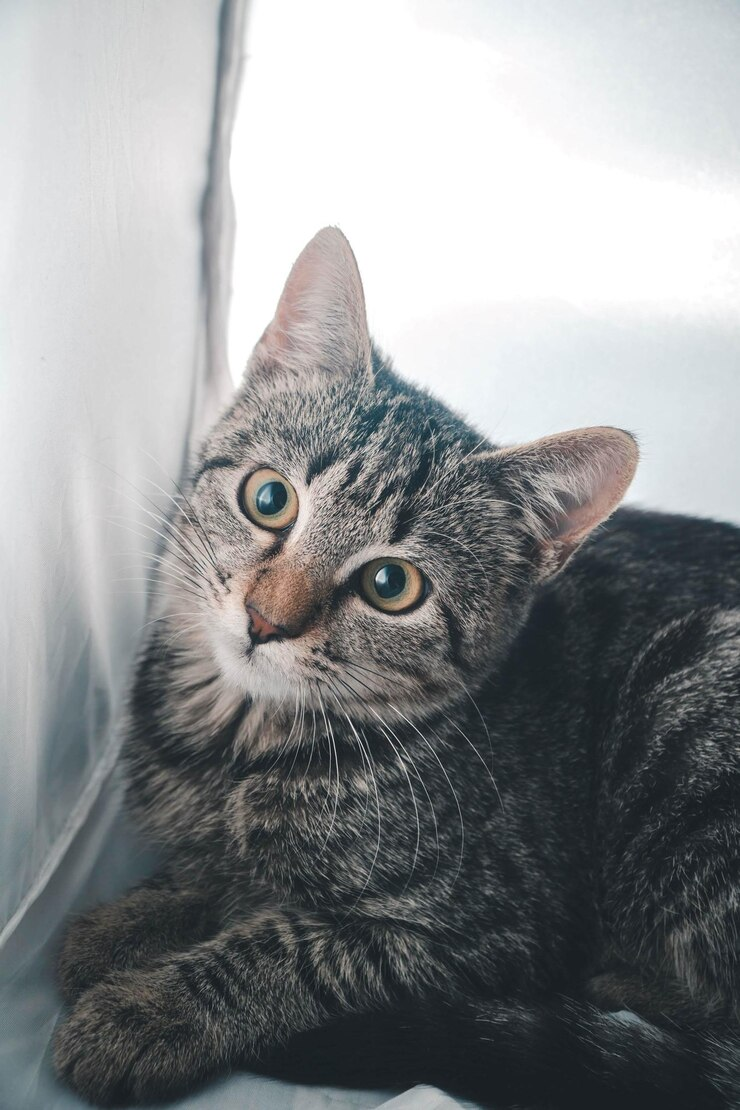
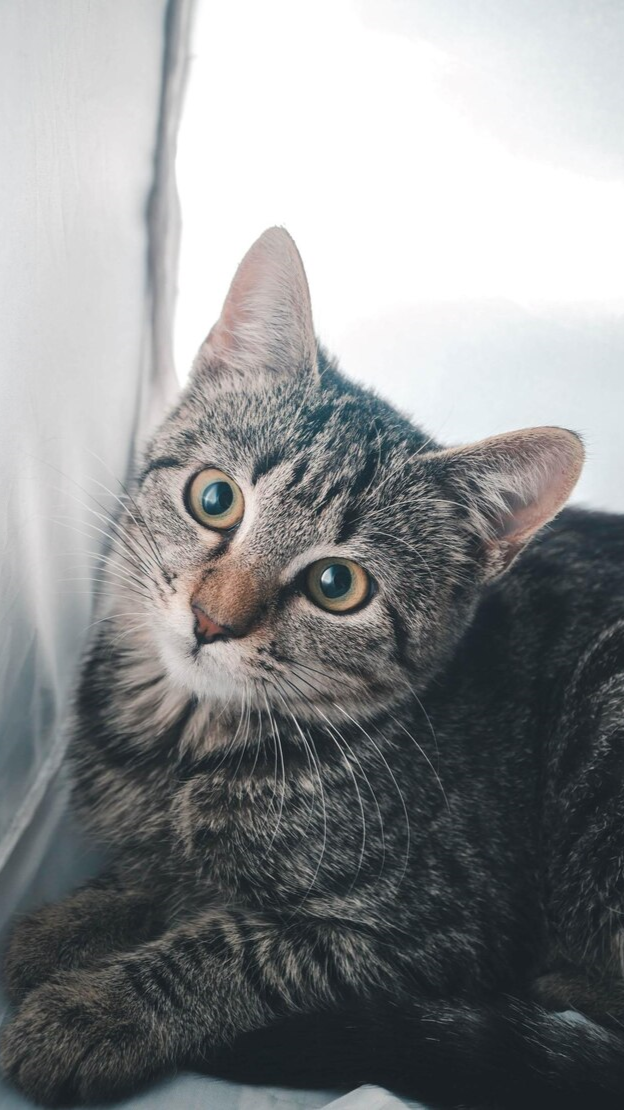
about small screen img height fixed to 500px

diff --git a/css/style.css b/css/style.css
@@ -281,6 +281,14 @@ nav {
   border-radius: 10px;
 }
 
+@media (max-width: 800px) {
+  .about__img {
+      width: 100%; /* Ensure the image takes full width */
+      height: 500px; /* Set a fixed height to crop the image */
+      object-fit: cover; /* Crop the image to fit the specified height */
+  }
+}
+
 @media (min-width: 800px) {
   .about {
     display: grid;
